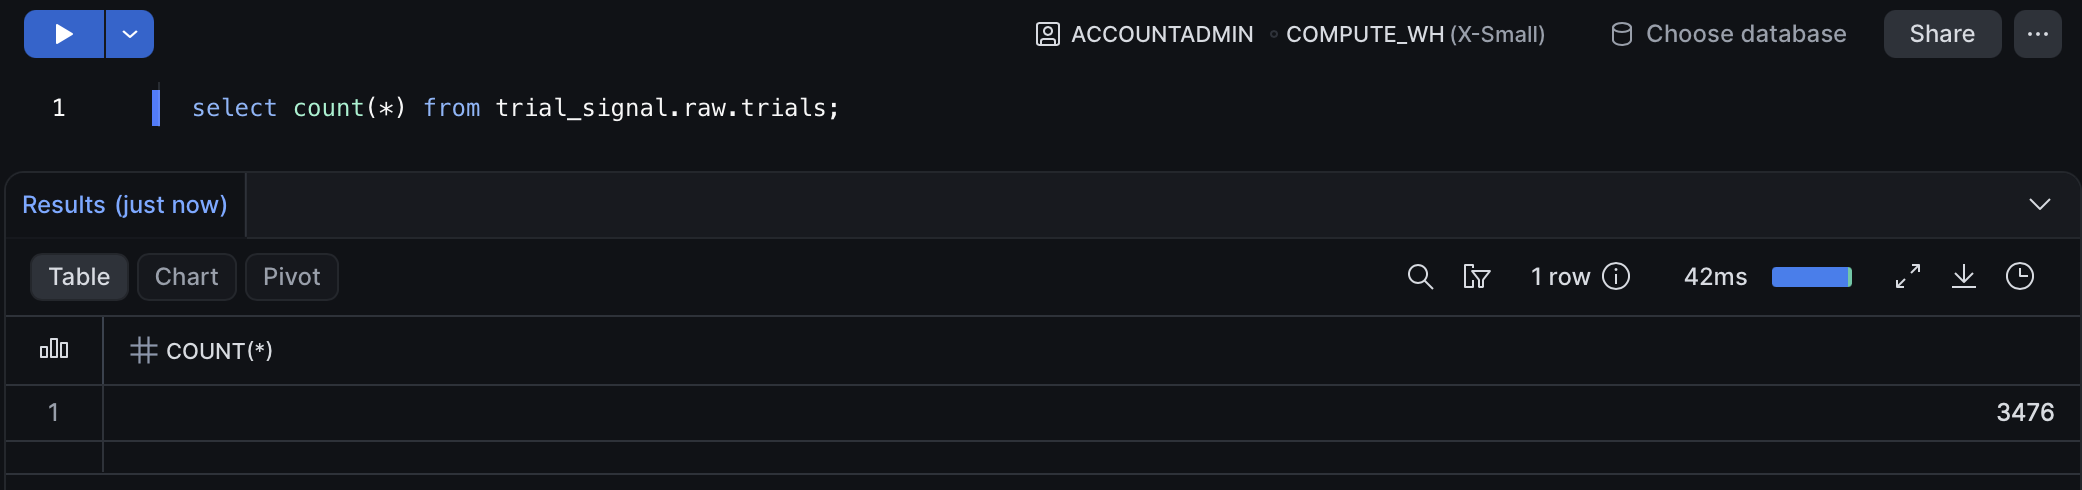
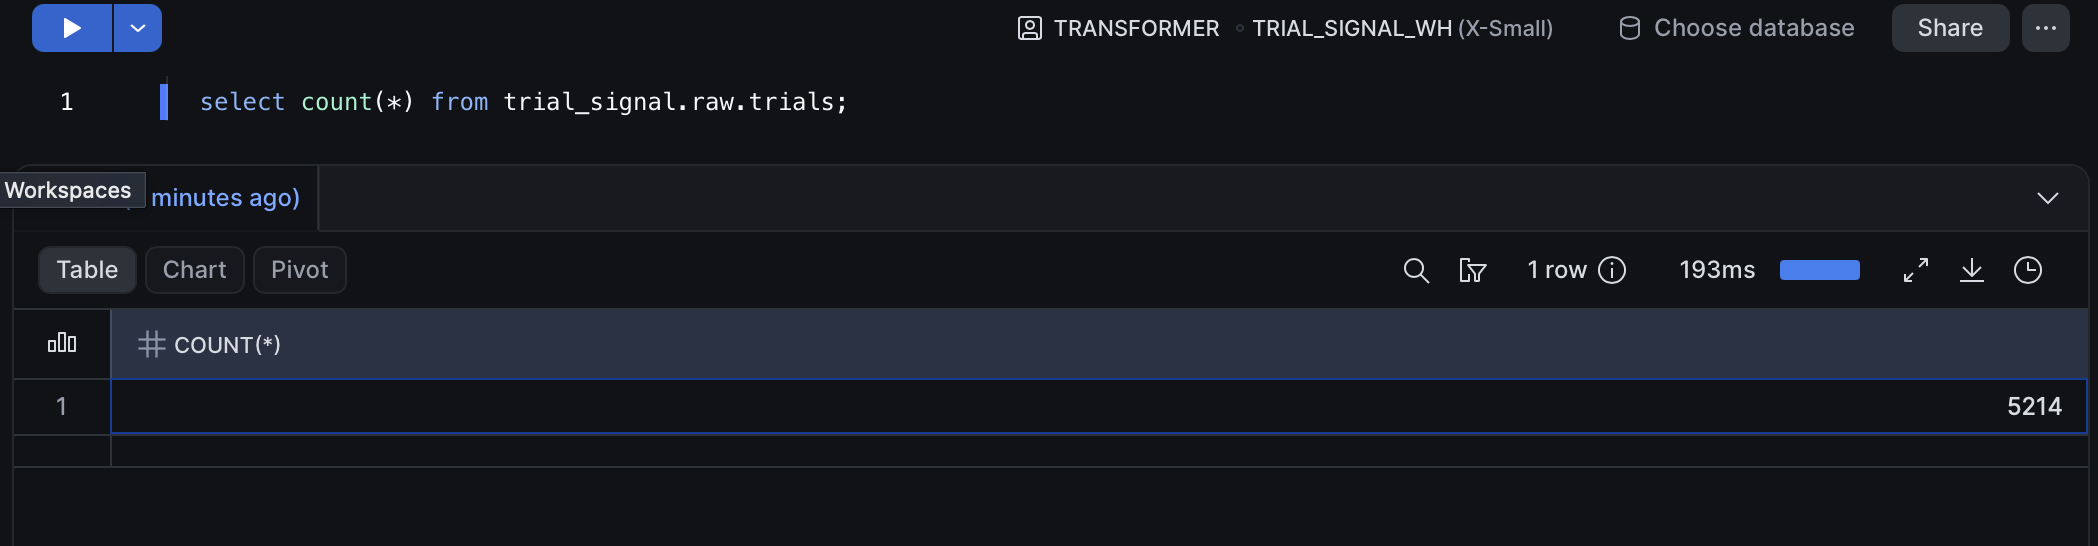
demo capture: row count re-shot least-privilege (5,214), parity refreshed at 3 partitions

diff --git a/docs/assets/INVENTORY.md b/docs/assets/INVENTORY.md
@@ -1,4 +1,6 @@
-# Demo asset inventory (captured 2026-08-15, post all-green DAG run)
+# Demo asset inventory (captured 2026-08-15, post all-green DAG run;
+# row count + parity refreshed after the 2026-08-16T00:00Z scheduled
+# run added a third partition unattended)
 
 Credit figure for the README: **$2.25 total org spend** (accumulated =
 current month; entire project to date on the trial, XS warehouse,
@@ -9,13 +11,13 @@ current month; entire project to date on the trial, XS warehouse,
 | pipeline-graph.png | Airflow graph view, all 11 tasks success, local-first fork-and-join with cloud TaskGroup expanded | Cropped from full-window shot to the graph band; no UI chrome captured |
 | pipeline-run.gif | Timelapse of the same run: trigger → Running → all tasks green → Success badge (~7s, from a 35-frame screen recording) | Left nav rail cropped out (removed timezone chip); no URL bar recorded |
 | snowsight-schemas.png | TRIAL_SIGNAL database tree: ANALYTICS (mart + staging views) and RAW (TRIALS, PARSED_TRIALS stage, PARQUET_FORMAT) | Nothing — captured without chrome |
-| snowsight-row-count.png | Worksheet `select count(*) from trial_signal.raw.trials;` → 3,476 (2 partitions x 1,738) | Nothing removed. Note: context ribbon shows ACCOUNTADMIN / COMPUTE_WH (ad-hoc query context, not the pipeline's TRANSFORMER / TRIAL_SIGNAL_WH) |
+| snowsight-row-count.png | Worksheet `select count(*) from trial_signal.raw.trials;` → 5,214 (3 partitions x 1,738 — the third loaded by the DAG's own overnight scheduled run), run as TRANSFORMER on TRIAL_SIGNAL_WH (the pipeline's least-privilege context) | Nothing removed |
 | snowsight-warehouse.png | TRIAL_SIGNAL_WH details: X-Small, Auto suspend = 1 minute, auto-resume, activity after the run | Query-history user filter chip black-boxed (Snowflake username) |
 | snowsight-cost.png | Cost Management org overview: $2.25 accumulated spend after the full run | Accounts Spend Summary table cropped off (contained the account locator) |
 | ask-q1.txt | `make ask` Q1 full JSON: grounded answer, cited_nct_ids=[NCT03809663], empty unverified list, pinned model id | ANSI stripped; HF Hub / model-loading log lines removed |
 | eval-summary.txt | `make eval` table: 10 golden questions, retrieval 1.00 (threshold 0.8), citation 1.00 (threshold 0.7) | ANSI stripped; HF Hub log lines and connector version warnings removed |
 | verify-idempotent.txt | Snapshot re-run proof: row count + dbt_scd_id fingerprint identical before/after | ANSI stripped |
-| verify-parity.txt | Cross-target parity: staging 3,476 on both engines; completeness mart identical for both partitions | ANSI stripped; connector version-warning lines removed (contained local paths) |
+| verify-parity.txt | Cross-target parity: staging 5,214 on both engines; completeness mart identical for all three partitions (incl. the overnight scheduled run's) | ANSI stripped; connector version-warning lines removed (contained local paths) |
 | terraform-plan.txt | `terraform plan` verdict: "No changes. Your infrastructure matches the configuration." | Verbatim excerpt of the owner-run plan output |
 
 All images passed a leak inspection (no account locators, usernames,
